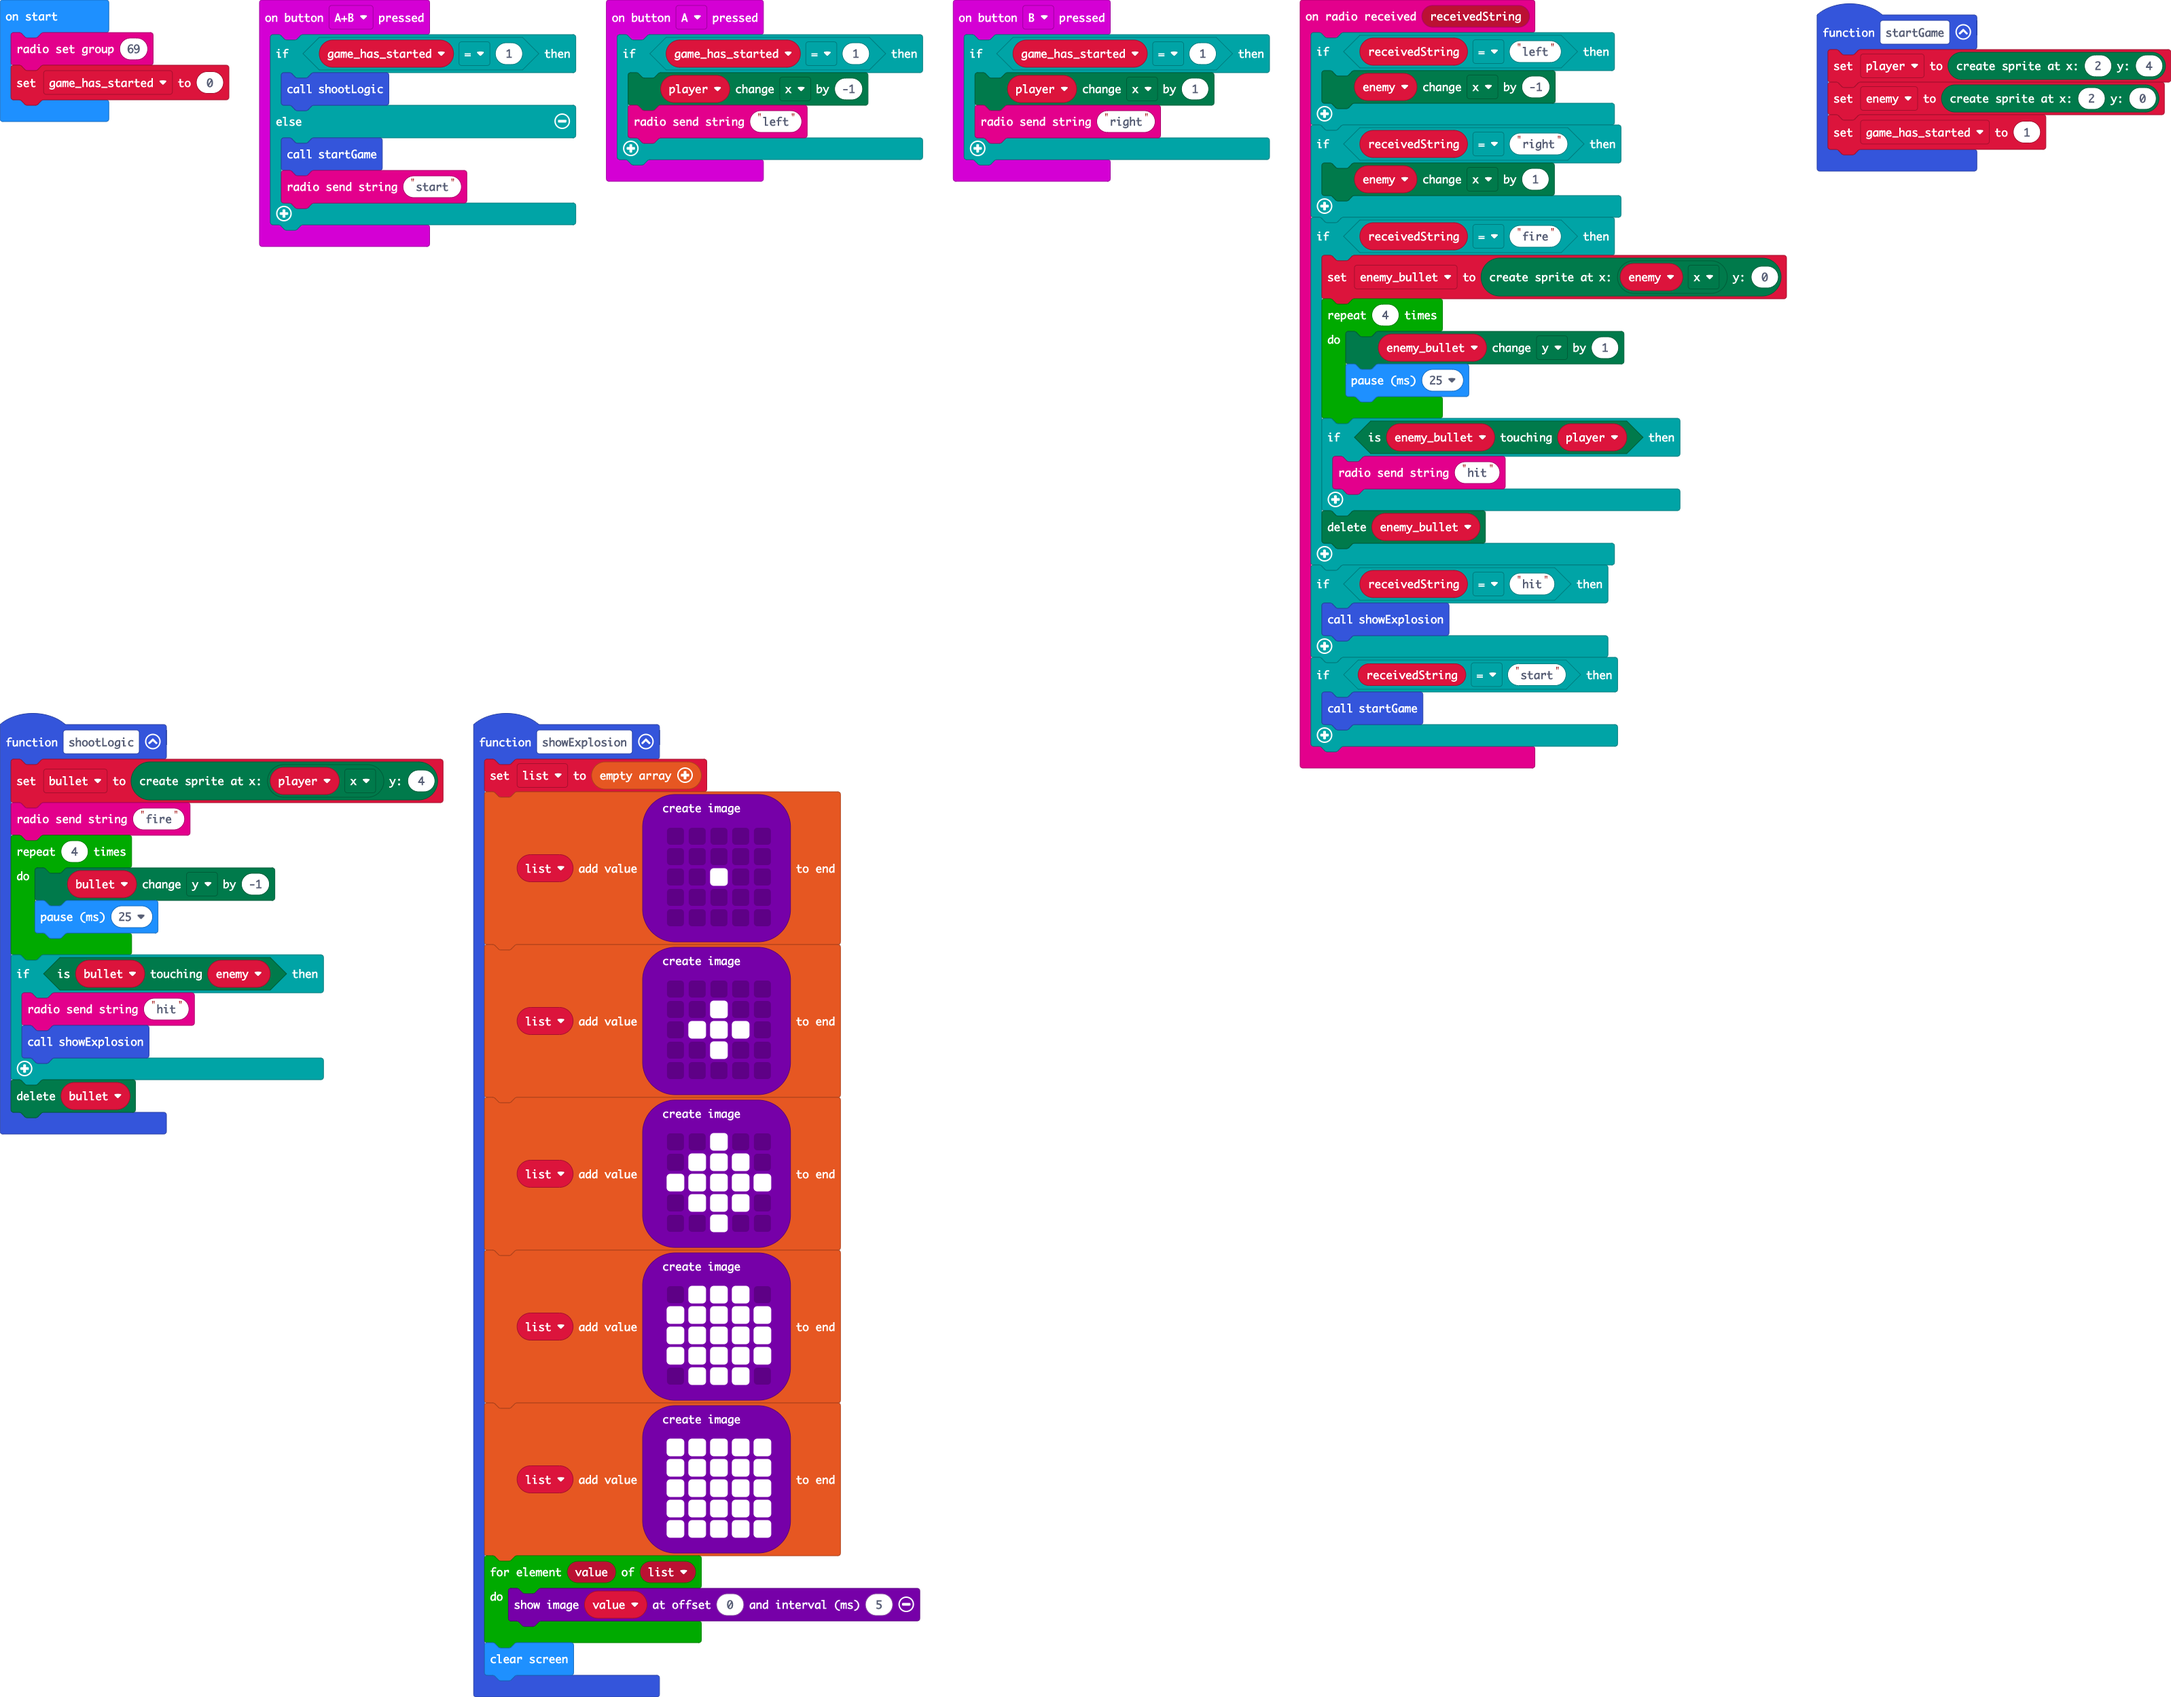
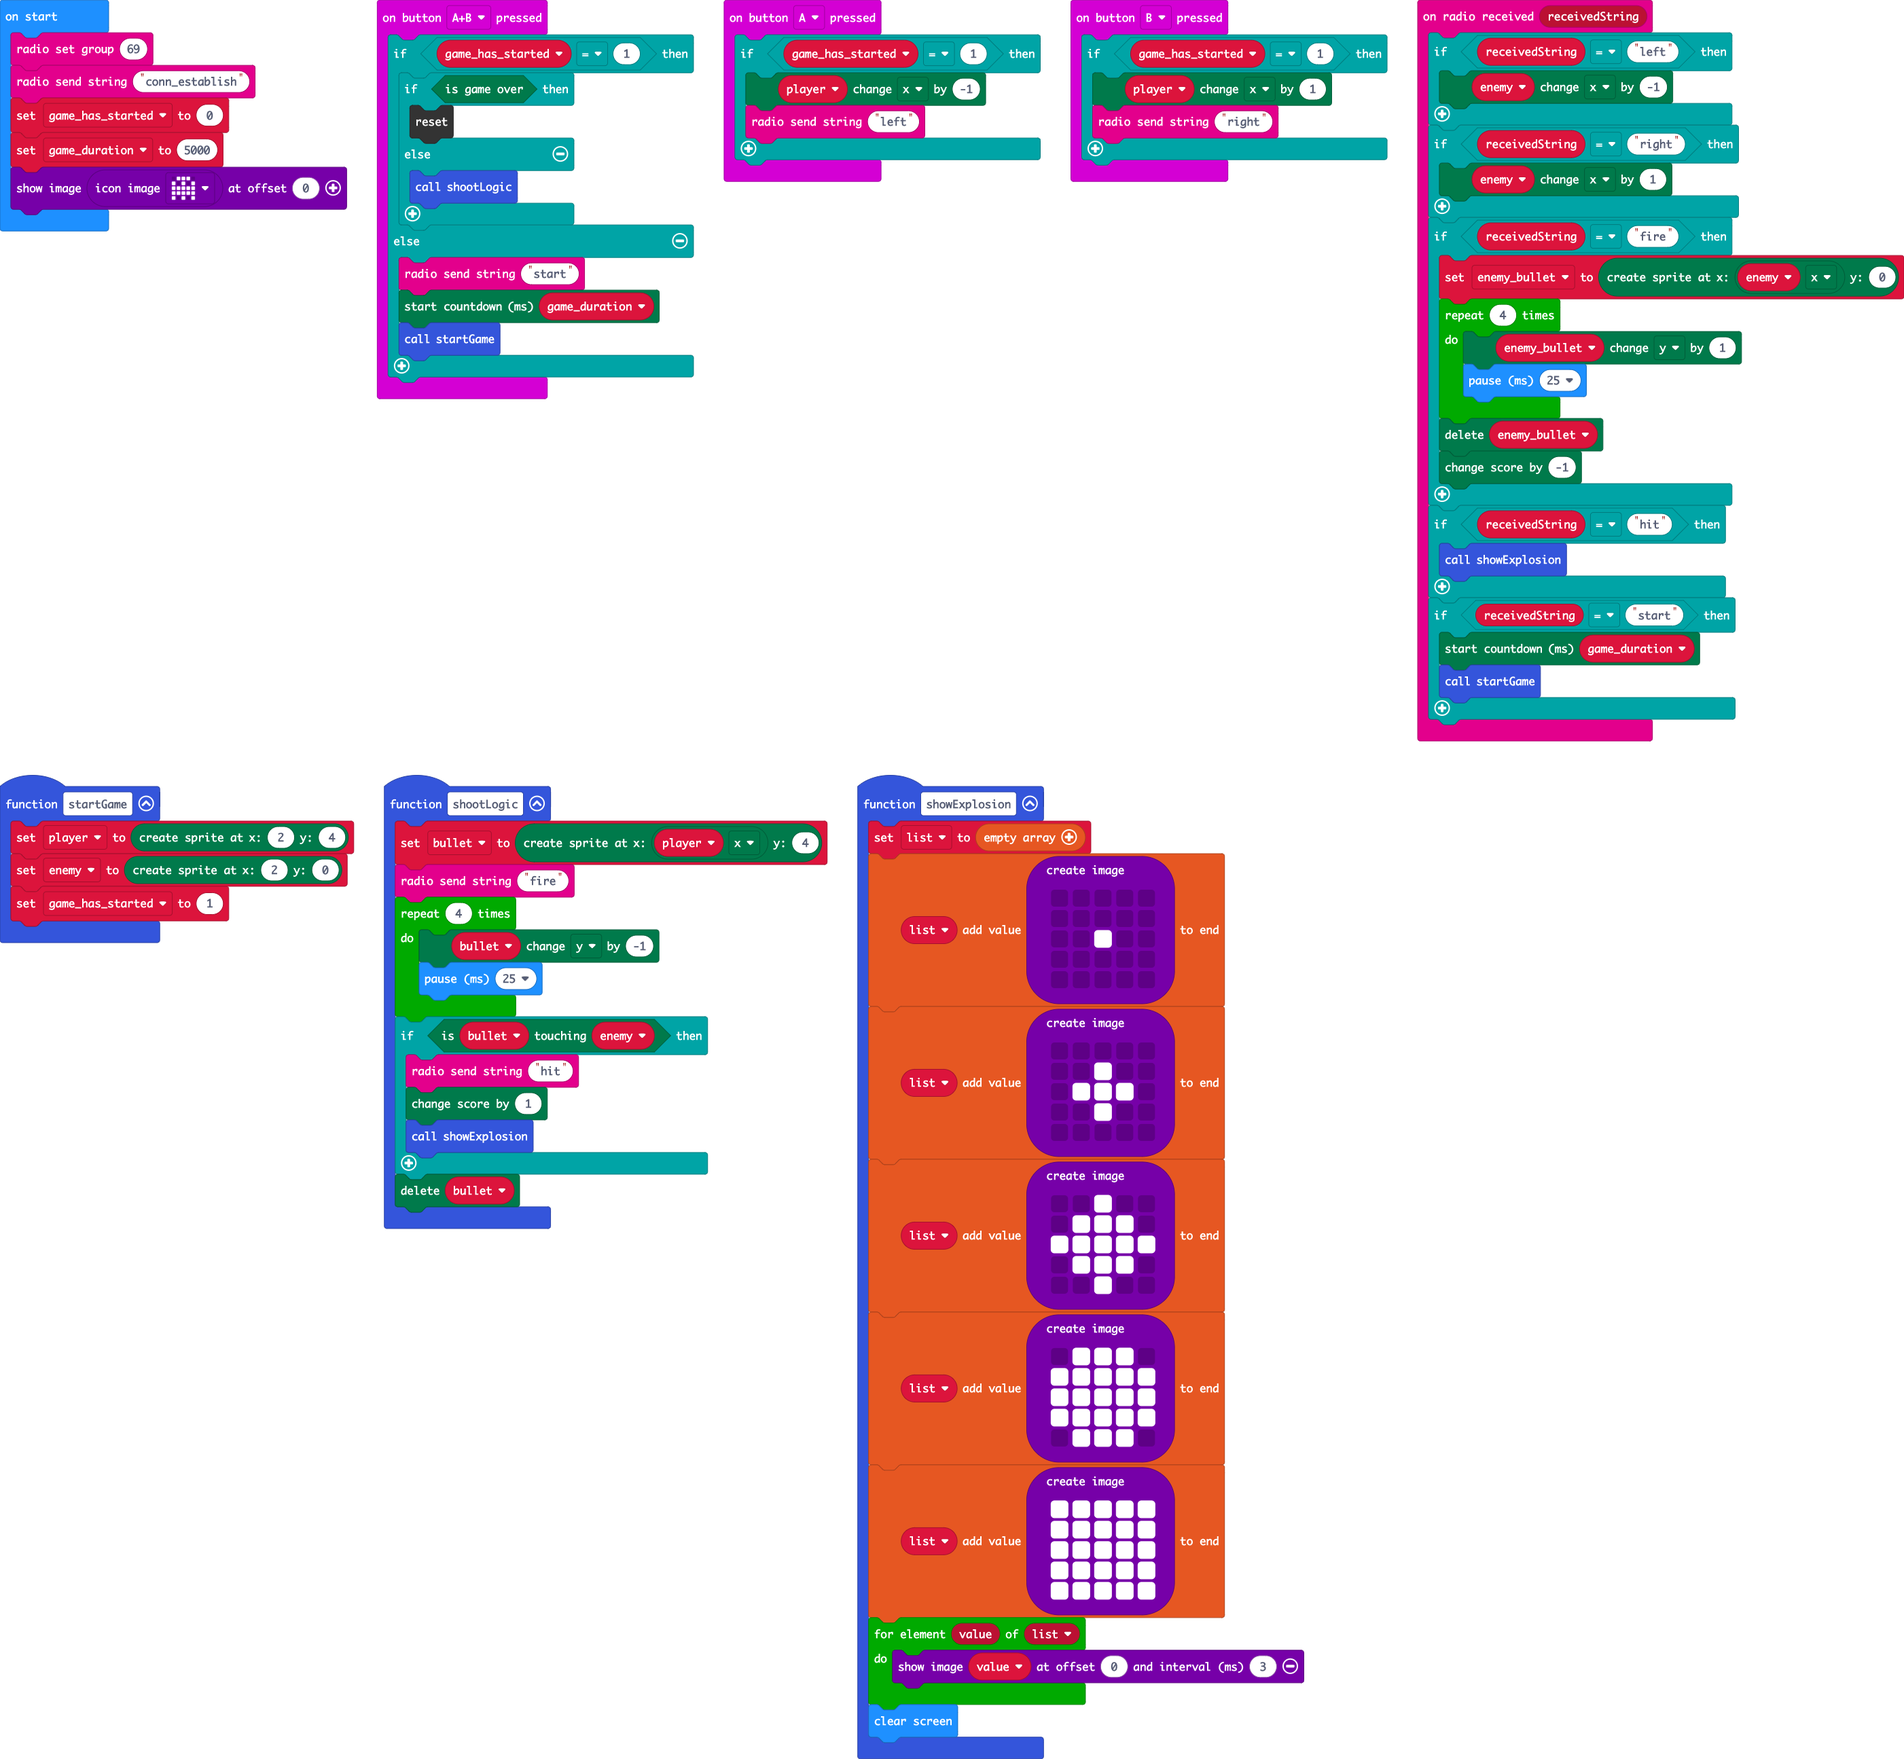
Update main.blocks, main.ts

diff --git a/main.ts b/main.ts
@@ -7,6 +7,7 @@ function shootLogic () {
     }
     if (bullet.isTouching(enemy)) {
         radio.sendString("hit")
+        game.addScore(1)
         showExplosion()
     }
     bullet.delete()
@@ -60,16 +61,21 @@ function showExplosion () {
         # # # # #
         `))
     for (let value of list) {
-        value.showImage(0, 5)
+        value.showImage(0, 3)
     }
     basic.clearScreen()
 }
 input.onButtonPressed(Button.AB, function () {
     if (game_has_started == 1) {
-        shootLogic()
+        if (game.isGameOver()) {
+            control.reset()
+        } else {
+            shootLogic()
+        }
     } else {
-        startGame()
         radio.sendString("start")
+        game.startCountdown(game_duration)
+        startGame()
     }
 })
 radio.onReceivedString(function (receivedString) {
@@ -85,15 +91,14 @@ radio.onReceivedString(function (receivedString) {
             enemy_bullet.change(LedSpriteProperty.Y, 1)
             basic.pause(25)
         }
-        if (enemy_bullet.isTouching(player)) {
-            radio.sendString("hit")
-        }
         enemy_bullet.delete()
+        game.addScore(-1)
     }
     if (receivedString == "hit") {
         showExplosion()
     }
     if (receivedString == "start") {
+        game.startCountdown(game_duration)
         startGame()
     }
 })
@@ -108,6 +113,10 @@ let list: Image[] = []
 let enemy: game.LedSprite = null
 let player: game.LedSprite = null
 let bullet: game.LedSprite = null
+let game_duration = 0
 let game_has_started = 0
 radio.setGroup(69)
+radio.sendString("conn_establish")
 game_has_started = 0
+game_duration = 5000
+images.iconImage(IconNames.Ghost).showImage(0)
